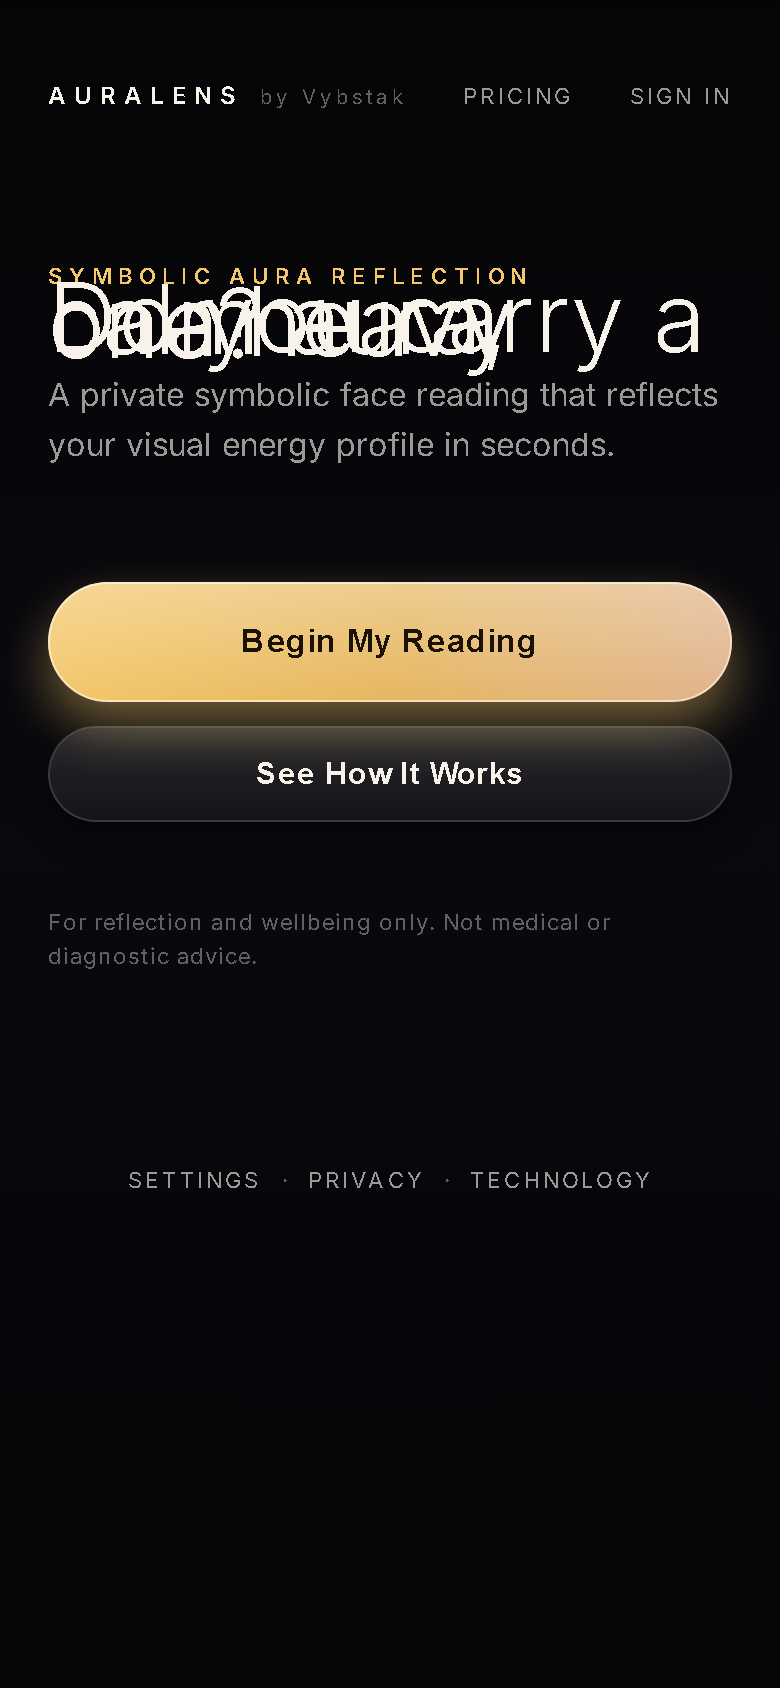
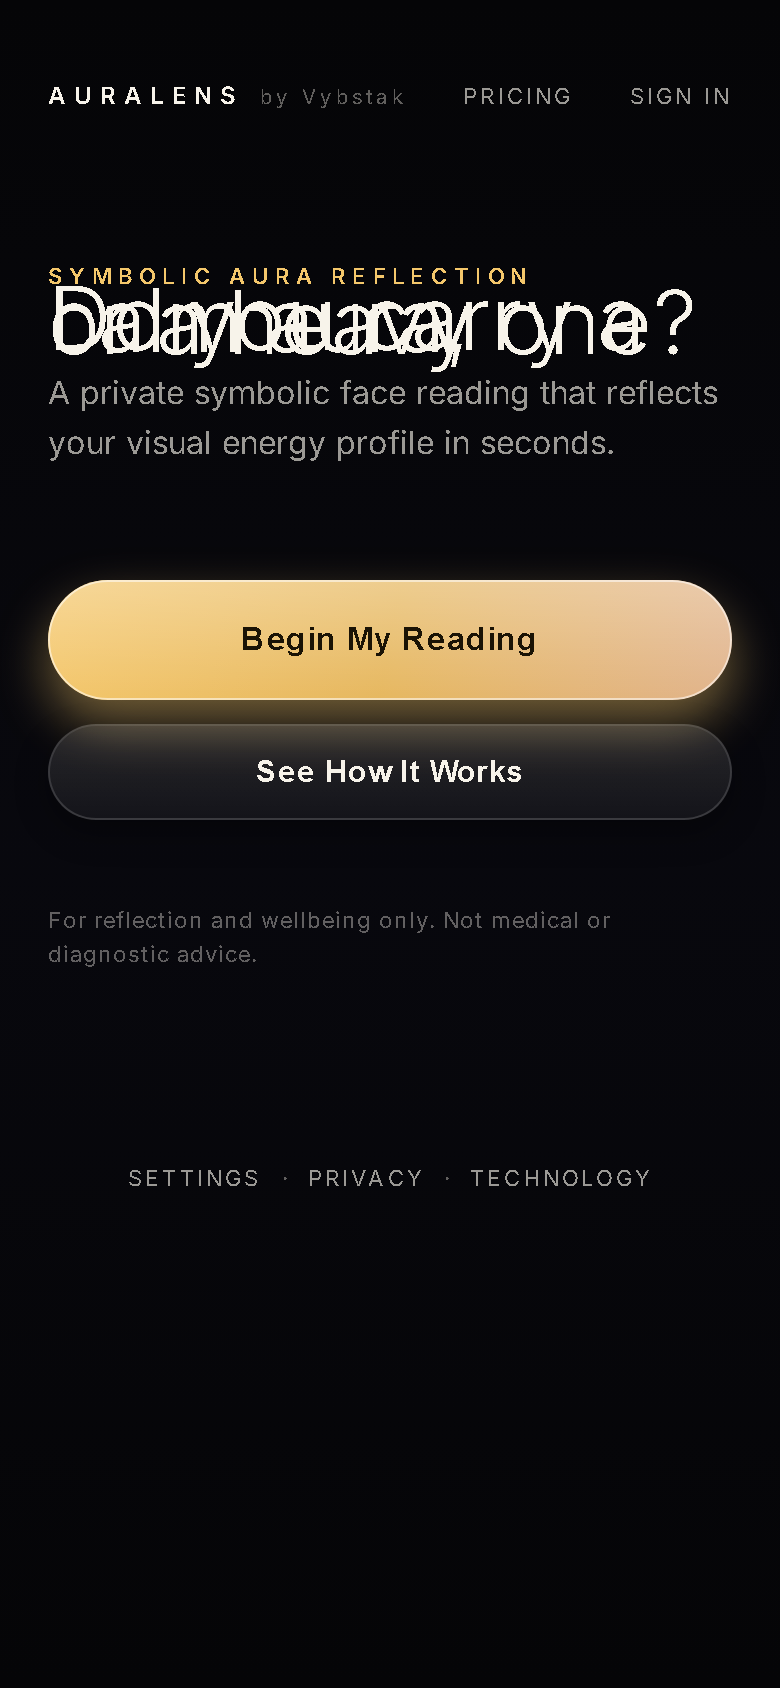
Two separate Text nodes for hero title — guaranteed no line collapse on web

diff --git a/app/index.tsx b/app/index.tsx
@@ -1,6 +1,6 @@
 import { router } from 'expo-router';
 import { useEffect, useState } from 'react';
-import { Dimensions, Platform, Pressable, StyleSheet, Text, View } from 'react-native';
+import { Dimensions, Pressable, StyleSheet, Text, View } from 'react-native';
 import { ScreenContainer } from '@/components/ScreenContainer';
 import { PremiumButton } from '@/components/PremiumButton';
 import {
@@ -16,24 +16,13 @@ const WIDE_BREAKPOINT = 980;
 
 const HERO = {
   eyebrow: 'SYMBOLIC AURA REFLECTION',
-  title: 'Do you carry a calm aura,\nor a heavy one?',
+  titleLine1: 'Do you carry a calm aura,',
+  titleLine2: 'or a heavy one?',
   sub: 'A private symbolic face reading that reflects your visual energy profile in seconds.',
   primaryCta: 'Begin My Reading',
   secondaryCta: 'See How It Works',
   trust: 'For reflection and wellbeing only. Not medical or diagnostic advice.',
 };
-
-// Clamp-style responsive size on web. lineHeight is kept ≥ 1.02 so lines
-// don't collapse onto each other on react-native-web (which treats
-// fractional <1 values as a unitless multiplier).
-const heroTitleStyle = Platform.select({
-  web: {
-    fontSize: 'clamp(44px, 5.8vw, 88px)' as any,
-    lineHeight: 1.02 as any,
-    letterSpacing: -0.04 as any,
-  },
-  default: { fontSize: 56, lineHeight: 62, letterSpacing: -1.2 },
-});
 
 export default function Hero() {
   const [w, setW] = useState(Dimensions.get('window').width);
@@ -64,9 +53,14 @@ export default function Hero() {
         <View style={[styles.left, wide && styles.leftWide]}>
           <FadeUp delay={180}>
             <Eyebrow>{HERO.eyebrow}</Eyebrow>
-            <Text style={[styles.titleBase, heroTitleStyle, styles.titleMargin]}>
-              {HERO.title}
-            </Text>
+            <View style={styles.titleMargin}>
+              <Text style={[styles.titleBase, wide ? styles.titleWide : styles.titleNarrow]}>
+                {HERO.titleLine1}
+              </Text>
+              <Text style={[styles.titleBase, wide ? styles.titleWide : styles.titleNarrow]}>
+                {HERO.titleLine2}
+              </Text>
+            </View>
             <Subtitle style={styles.sub}>{HERO.sub}</Subtitle>
           </FadeUp>
 
@@ -197,6 +191,18 @@ const styles = StyleSheet.create({
     fontWeight: '300',
   },
   titleMargin: { marginTop: 14 },
+  // Each title line is its own <Text> with explicit numeric lineHeight, so
+  // react-native-web doesn't collapse them onto each other on web.
+  titleWide: {
+    fontSize: 80,
+    lineHeight: 86,
+    letterSpacing: -2,
+  },
+  titleNarrow: {
+    fontSize: 52,
+    lineHeight: 58,
+    letterSpacing: -1.2,
+  },
   sub: {
     marginTop: 22,
     maxWidth: 520,
